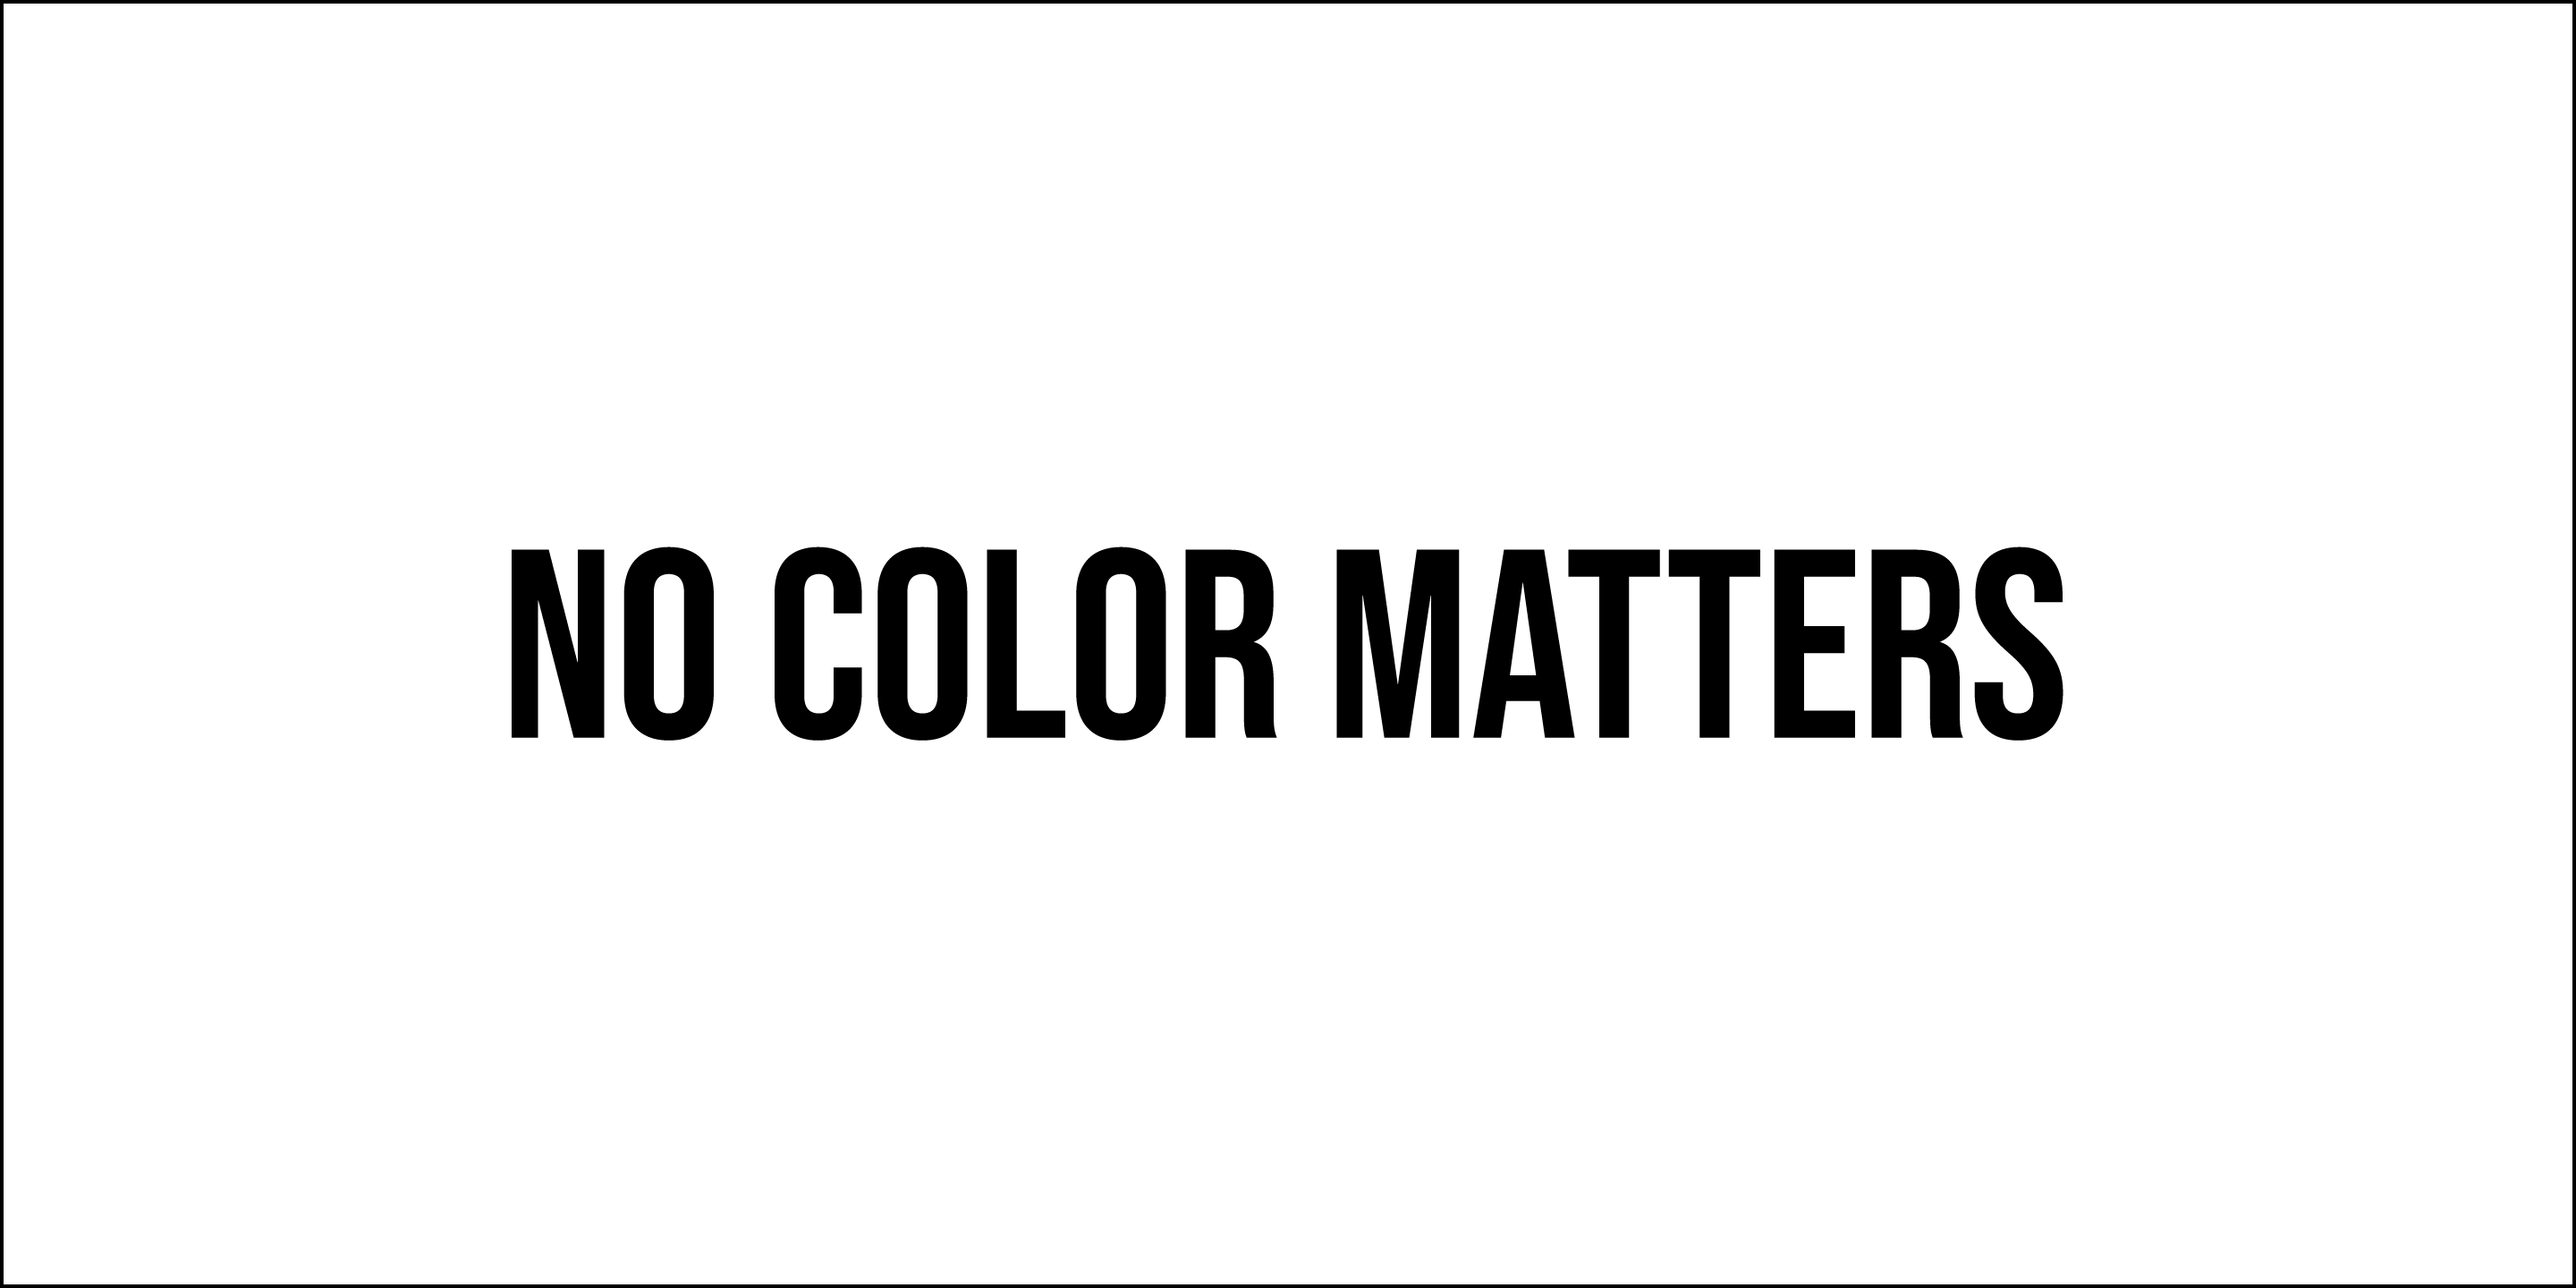
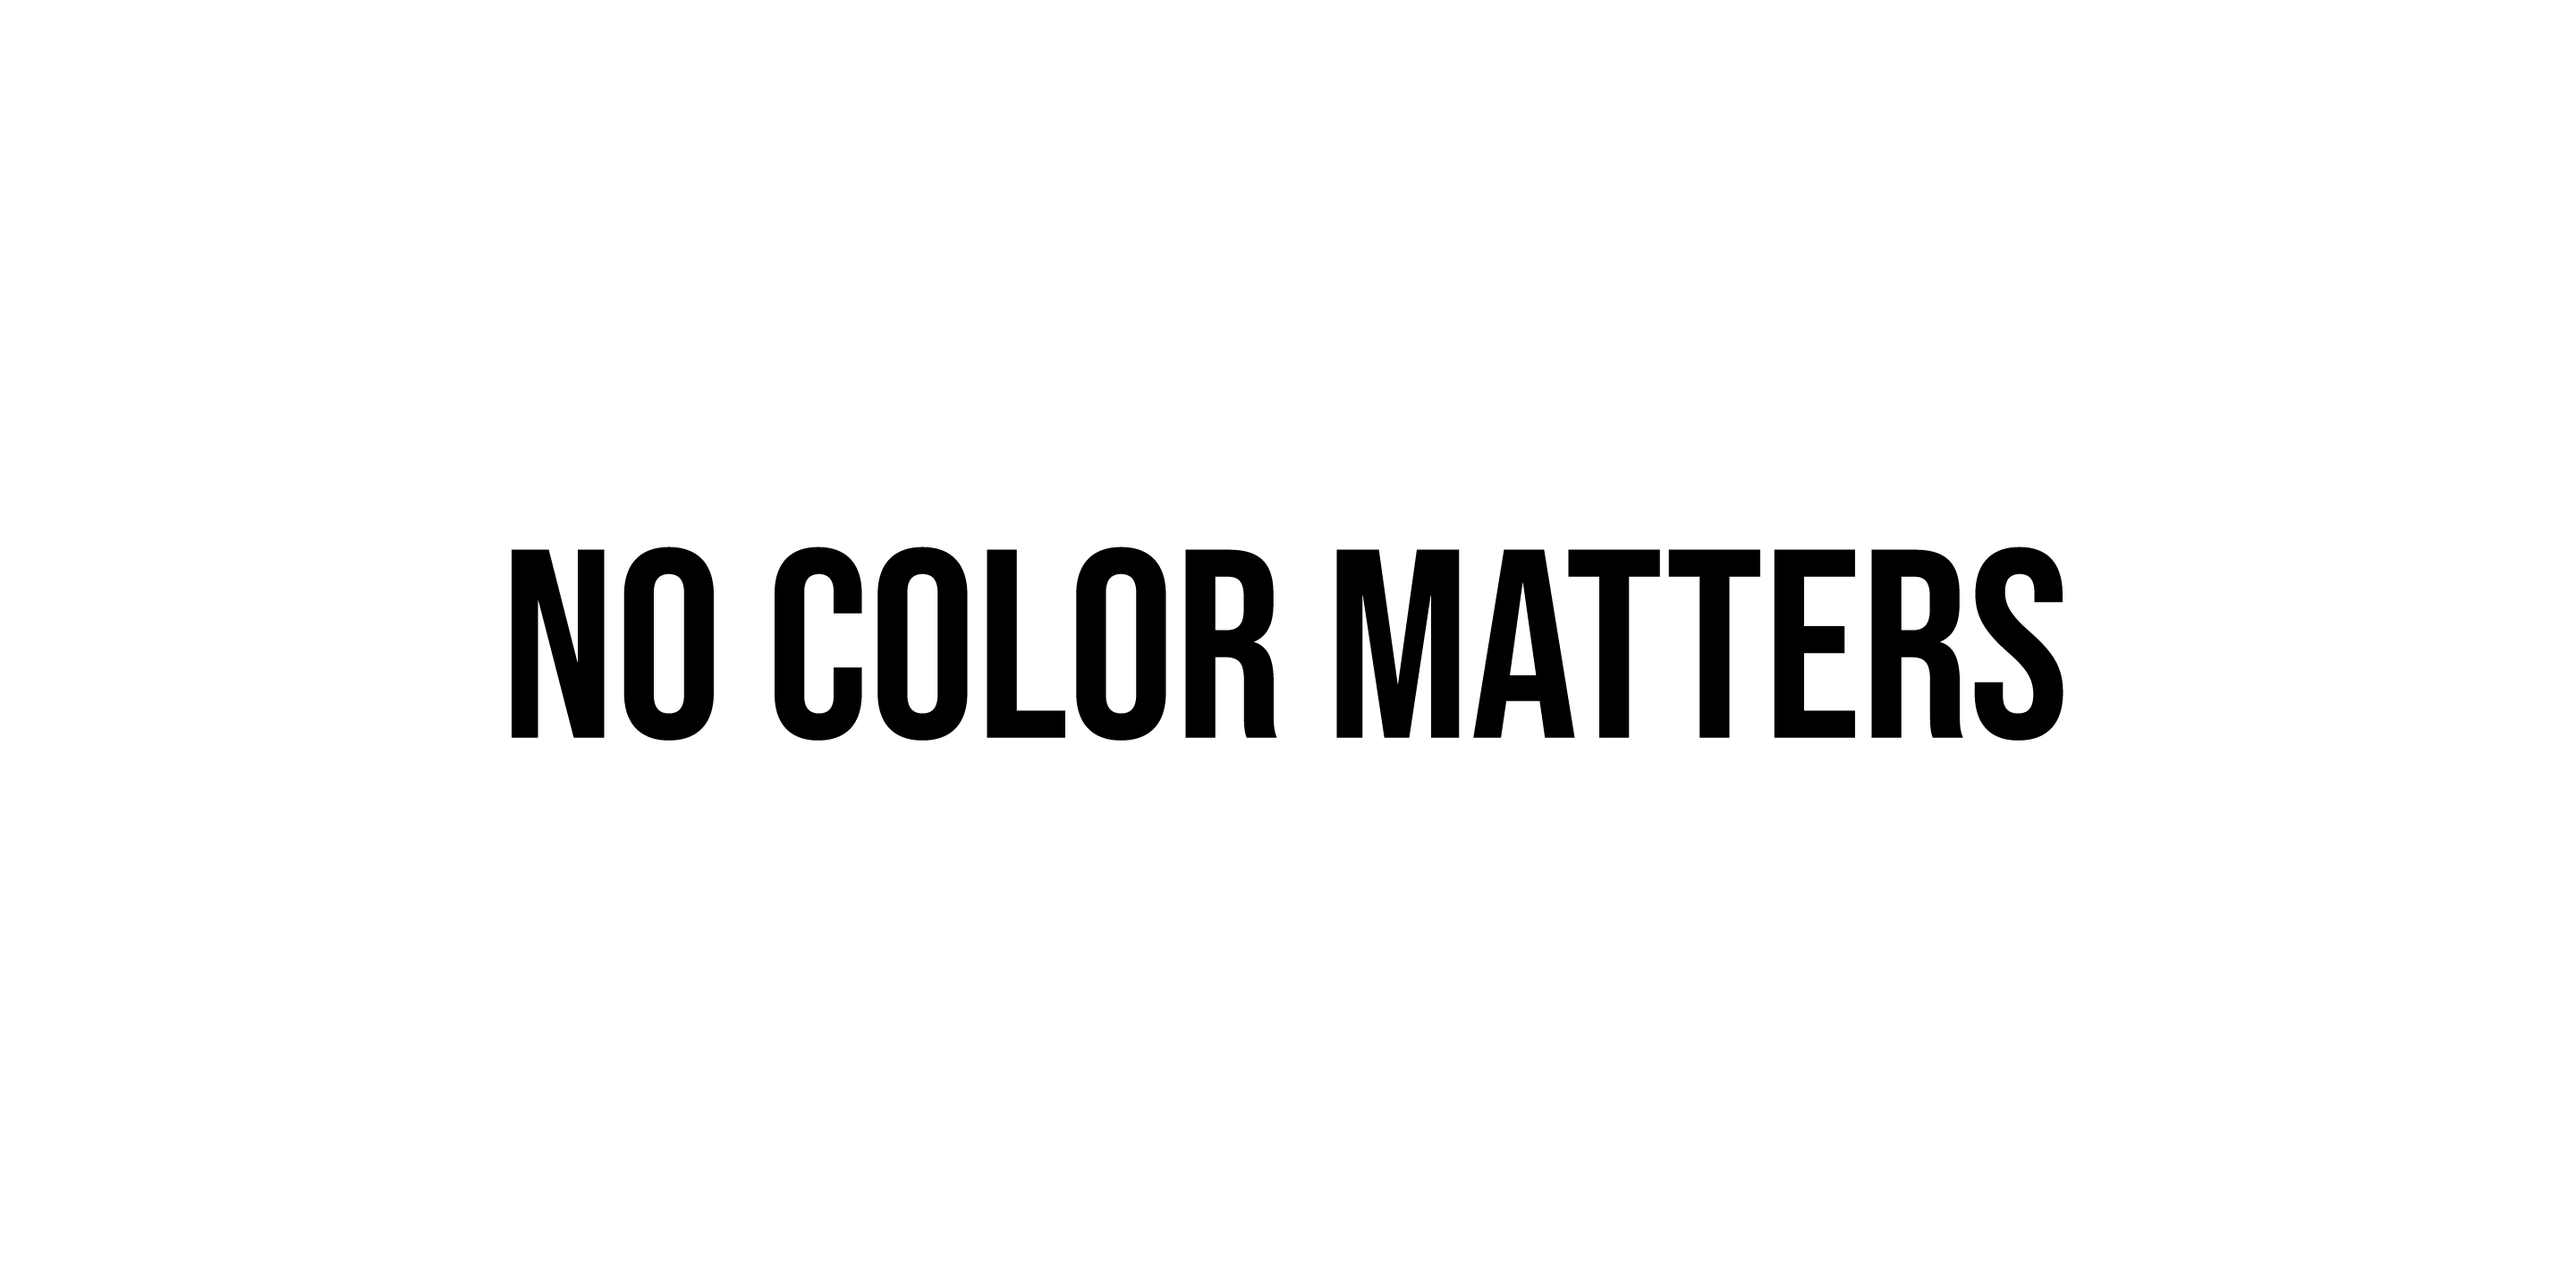
site

diff --git a/docs/assets/css/style.scss b/docs/assets/css/style.scss
@@ -5,5 +5,5 @@
 
 img {
   max-width:100%;
-  border: 1px solid #F00;
+  border: 1px solid #000;
 }
